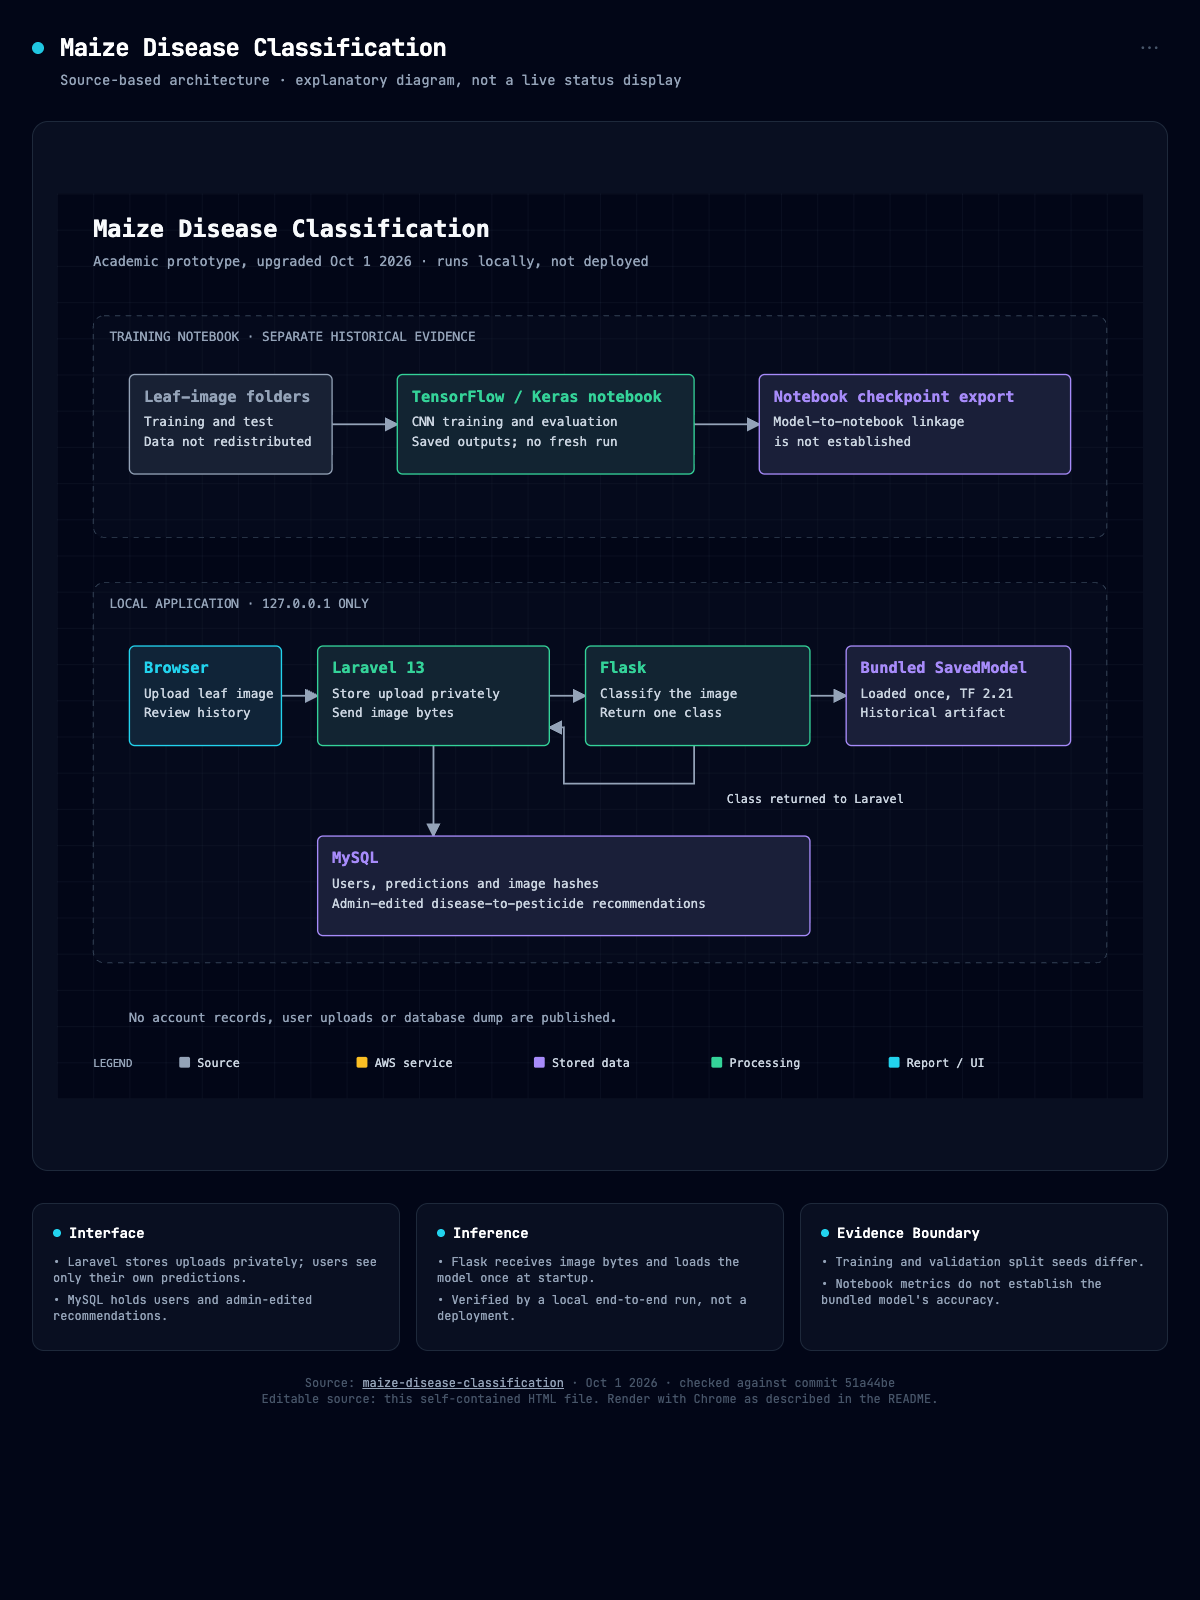
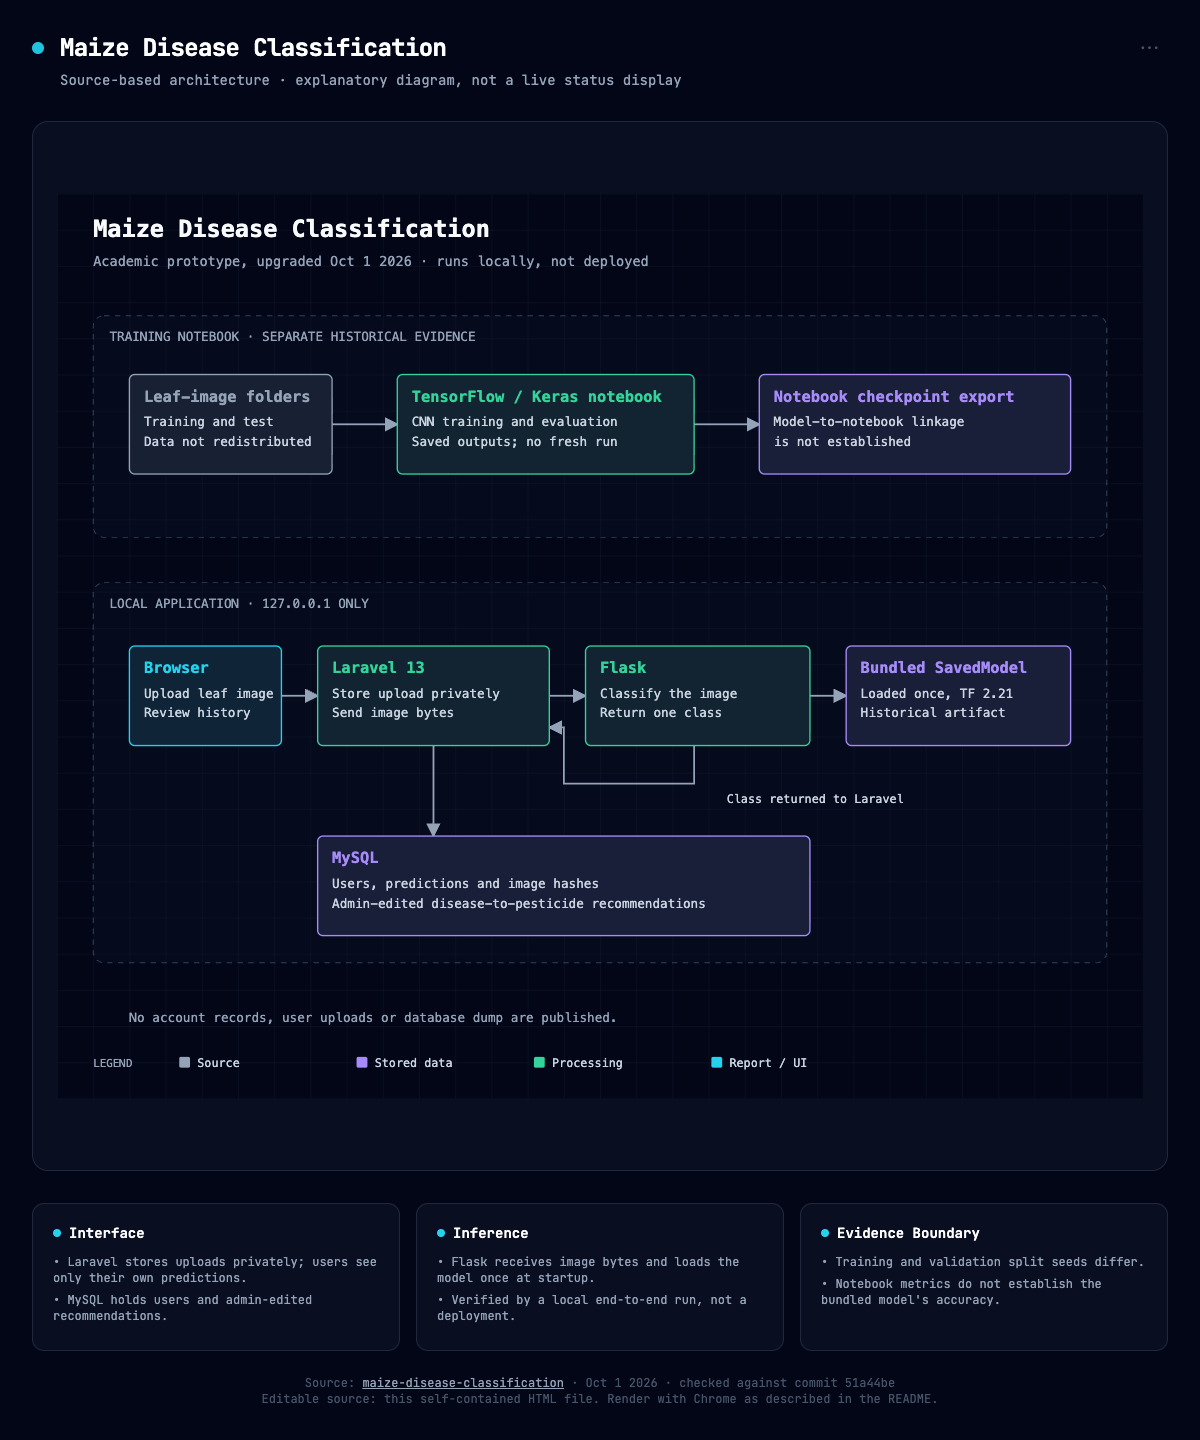
docs: fix document gaps in the READMEs, diagram and ignore rules
Replace the Laravel 8 boilerplate web-app README with a README for this app, state the dataset's public classification, remove the unused AWS legend entry from the architecture diagram and fit its render height, and keep local tool folders out of the public .gitignore. Drop allowlist entries that no longer match any text.

diff --git a/docs/architecture/architecture.html b/docs/architecture/architecture.html
@@ -206,7 +206,7 @@
 <defs><pattern id="grid" width="40" height="40" patternUnits="userSpaceOnUse"><path d="M40 0H0V40" fill="none" stroke="#1e293b" stroke-width="0.7"/></pattern><marker id="flow" markerWidth="8" markerHeight="8" refX="7" refY="4" orient="auto"><path d="M0 0L8 4L0 8Z" fill="#94a3b8"/></marker><marker id="control" markerWidth="8" markerHeight="8" refX="7" refY="4" orient="auto"><path d="M0 0L8 4L0 8Z" fill="#fb7185"/></marker></defs>
 <rect width="1200" height="1000" fill="#020617"/><rect width="1200" height="1000" fill="url(#grid)"/>
 <g font-family="ui-monospace, Menlo, Consolas, monospace"><text x="40" y="48" font-size="26" fill="#f8fafc" font-weight="700">Maize Disease Classification</text><text x="40" y="80" font-size="15" fill="#94a3b8" >Academic prototype, upgraded Oct 1 2026 · runs locally, not deployed</text><rect x="40" y="135" width="1120" height="245" rx="12" fill="#0f172a" fill-opacity="0.25" stroke="#334155" stroke-dasharray="6 6"/><text x="58" y="163" font-size="14" fill="#94a3b8" >TRAINING NOTEBOOK · SEPARATE HISTORICAL EVIDENCE</text><rect x="40" y="430" width="1120" height="420" rx="12" fill="#0f172a" fill-opacity="0.25" stroke="#334155" stroke-dasharray="6 6"/><text x="58" y="458" font-size="14" fill="#94a3b8" >LOCAL APPLICATION · 127.0.0.1 ONLY</text><path d="M304 255H376" fill="none" stroke="#94a3b8" stroke-width="2"  marker-end="url(#flow)"/><path d="M704 255H776" fill="none" stroke="#94a3b8" stroke-width="2"  marker-end="url(#flow)"/><path d="M248 555H288" fill="none" stroke="#94a3b8" stroke-width="2"  marker-end="url(#flow)"/><path d="M544 555H584" fill="none" stroke="#94a3b8" stroke-width="2"  marker-end="url(#flow)"/><path d="M832 555H872" fill="none" stroke="#94a3b8" stroke-width="2"  marker-end="url(#flow)"/><path d="M704 610V652H560V590H544" fill="none" stroke="#94a3b8" stroke-width="2"  marker-end="url(#flow)"/><path d="M416 610V710" fill="none" stroke="#94a3b8" stroke-width="2"  marker-end="url(#flow)"/><g><rect x="80" y="200" width="224" height="110" rx="6" fill="#0f172a"/><rect x="80" y="200" width="224" height="110" rx="6" fill="#94a3b8" fill-opacity="0.07" stroke="#94a3b8" stroke-width="1.5"/><text x="96" y="230" font-size="17" fill="#94a3b8" font-weight="700">Leaf-image folders</text><text x="96" y="257" font-size="14" fill="#cbd5e1" >Training and test</text><text x="96" y="279" font-size="14" fill="#cbd5e1" >Data not redistributed</text></g><g><rect x="376" y="200" width="328" height="110" rx="6" fill="#0f172a"/><rect x="376" y="200" width="328" height="110" rx="6" fill="#34d399" fill-opacity="0.07" stroke="#34d399" stroke-width="1.5"/><text x="392" y="230" font-size="17" fill="#34d399" font-weight="700">TensorFlow / Keras notebook</text><text x="392" y="257" font-size="14" fill="#cbd5e1" >CNN training and evaluation</text><text x="392" y="279" font-size="14" fill="#cbd5e1" >Saved outputs; no fresh run</text></g><g><rect x="776" y="200" width="344" height="110" rx="6" fill="#0f172a"/><rect x="776" y="200" width="344" height="110" rx="6" fill="#a78bfa" fill-opacity="0.07" stroke="#a78bfa" stroke-width="1.5"/><text x="792" y="230" font-size="17" fill="#a78bfa" font-weight="700">Notebook checkpoint export</text><text x="792" y="257" font-size="14" fill="#cbd5e1" >Model-to-notebook linkage</text><text x="792" y="279" font-size="14" fill="#cbd5e1" >is not established</text></g><g><rect x="80" y="500" width="168" height="110" rx="6" fill="#0f172a"/><rect x="80" y="500" width="168" height="110" rx="6" fill="#22d3ee" fill-opacity="0.07" stroke="#22d3ee" stroke-width="1.5"/><text x="96" y="530" font-size="17" fill="#22d3ee" font-weight="700">Browser</text><text x="96" y="557" font-size="14" fill="#cbd5e1" >Upload leaf image</text><text x="96" y="579" font-size="14" fill="#cbd5e1" >Review history</text></g><g><rect x="288" y="500" width="256" height="110" rx="6" fill="#0f172a"/><rect x="288" y="500" width="256" height="110" rx="6" fill="#34d399" fill-opacity="0.07" stroke="#34d399" stroke-width="1.5"/><text x="304" y="530" font-size="17" fill="#34d399" font-weight="700">Laravel 13</text><text x="304" y="557" font-size="14" fill="#cbd5e1" >Store upload privately</text><text x="304" y="579" font-size="14" fill="#cbd5e1" >Send image bytes</text></g><g><rect x="584" y="500" width="248" height="110" rx="6" fill="#0f172a"/><rect x="584" y="500" width="248" height="110" rx="6" fill="#34d399" fill-opacity="0.07" stroke="#34d399" stroke-width="1.5"/><text x="600" y="530" font-size="17" fill="#34d399" font-weight="700">Flask</text><text x="600" y="557" font-size="14" fill="#cbd5e1" >Classify the image</text><text x="600" y="579" font-size="14" fill="#cbd5e1" >Return one class</text></g><g><rect x="872" y="500" width="248" height="110" rx="6" fill="#0f172a"/><rect x="872" y="500" width="248" height="110" rx="6" fill="#a78bfa" fill-opacity="0.07" stroke="#a78bfa" stroke-width="1.5"/><text x="888" y="530" font-size="17" fill="#a78bfa" font-weight="700">Bundled SavedModel</text><text x="888" y="557" font-size="14" fill="#cbd5e1" >Loaded once, TF 2.21</text><text x="888" y="579" font-size="14" fill="#cbd5e1" >Historical artifact</text></g><g><rect x="288" y="710" width="544" height="110" rx="6" fill="#0f172a"/><rect x="288" y="710" width="544" height="110" rx="6" fill="#a78bfa" fill-opacity="0.07" stroke="#a78bfa" stroke-width="1.5"/><text x="304" y="740" font-size="17" fill="#a78bfa" font-weight="700">MySQL</text><text x="304" y="767" font-size="14" fill="#cbd5e1" >Users, predictions and image hashes</text><text x="304" y="789" font-size="14" fill="#cbd5e1" >Admin-edited disease-to-pesticide recommendations</text></g><text x="740" y="674" font-size="13" fill="#cbd5e1" >Class returned to Laravel</text><text x="80" y="915" font-size="14" fill="#94a3b8" >No account records, user uploads or database dump are published.</text>
-<text x="40" y="965" font-size="12" fill="#94a3b8" >LEGEND</text><rect x="135" y="954" width="12" height="12" rx="2" fill="#94a3b8"/><text x="155" y="965" font-size="13" fill="#cbd5e1" >Source</text><rect x="331" y="954" width="12" height="12" rx="2" fill="#fbbf24"/><text x="351" y="965" font-size="13" fill="#cbd5e1" >AWS service</text><rect x="527" y="954" width="12" height="12" rx="2" fill="#a78bfa"/><text x="547" y="965" font-size="13" fill="#cbd5e1" >Stored data</text><rect x="723" y="954" width="12" height="12" rx="2" fill="#34d399"/><text x="743" y="965" font-size="13" fill="#cbd5e1" >Processing</text><rect x="919" y="954" width="12" height="12" rx="2" fill="#22d3ee"/><text x="939" y="965" font-size="13" fill="#cbd5e1" >Report / UI</text>
+<text x="40" y="965" font-size="12" fill="#94a3b8" >LEGEND</text><rect x="135" y="954" width="12" height="12" rx="2" fill="#94a3b8"/><text x="155" y="965" font-size="13" fill="#cbd5e1" >Source</text><rect x="331" y="954" width="12" height="12" rx="2" fill="#a78bfa"/><text x="351" y="965" font-size="13" fill="#cbd5e1" >Stored data</text><rect x="527" y="954" width="12" height="12" rx="2" fill="#34d399"/><text x="547" y="965" font-size="13" fill="#cbd5e1" >Processing</text><rect x="723" y="954" width="12" height="12" rx="2" fill="#22d3ee"/><text x="743" y="965" font-size="13" fill="#cbd5e1" >Report / UI</text>
 </g></svg>
 
     </div>

diff --git a/web-app/README.md b/web-app/README.md
@@ -1,64 +1,40 @@
-<p align="center"><a href="https://laravel.com" target="_blank"><img src="https://raw.githubusercontent.com/laravel/art/master/logo-lockup/5%20SVG/2%20CMYK/1%20Full%20Color/laravel-logolockup-cmyk-red.svg" width="400"></a></p>
+# Maize Disease Classification Web App
 
-<p align="center">
-<a href="https://travis-ci.org/laravel/framework"><img src="https://travis-ci.org/laravel/framework.svg" alt="Build Status"></a>
-<a href="https://packagist.org/packages/laravel/framework"><img src="https://img.shields.io/packagist/dt/laravel/framework" alt="Total Downloads"></a>
-<a href="https://packagist.org/packages/laravel/framework"><img src="https://img.shields.io/packagist/v/laravel/framework" alt="Latest Stable Version"></a>
-<a href="https://packagist.org/packages/laravel/framework"><img src="https://img.shields.io/packagist/l/laravel/framework" alt="License"></a>
-</p>
+The Laravel 13 interface of the maize disease classifier: users upload a leaf image, the Flask service in [`../flask-app`](../flask-app) predicts its class and the app stores the result with an admin-edited recommendation.
 
-## About Laravel
+## Install
 
-Laravel is a web application framework with expressive, elegant syntax. We believe development must be an enjoyable and creative experience to be truly fulfilling. Laravel takes the pain out of development by easing common tasks used in many web projects, such as:
+Requires PHP 8.3 or newer (verified with 8.5.11), Composer 2 and a MySQL 8 or newer database. The full setup, including the database and the Flask service, is in the [root README](../README.md#install). From this folder:
 
-- [Simple, fast routing engine](https://laravel.com/docs/routing).
-- [Powerful dependency injection container](https://laravel.com/docs/container).
-- Multiple back-ends for [session](https://laravel.com/docs/session) and [cache](https://laravel.com/docs/cache) storage.
-- Expressive, intuitive [database ORM](https://laravel.com/docs/eloquent).
-- Database agnostic [schema migrations](https://laravel.com/docs/migrations).
-- [Robust background job processing](https://laravel.com/docs/queues).
-- [Real-time event broadcasting](https://laravel.com/docs/broadcasting).
+```bash
+composer install
+cp .env.example .env
+php artisan key:generate
+php artisan migrate --seed
+```
 
-Laravel is accessible, powerful, and provides tools required for large, robust applications.
+Set the database name, user and password in `.env`. [`.env.example`](.env.example) lists every setting with placeholders.
 
-## Learning Laravel
+## Usage
 
-Laravel has the most extensive and thorough [documentation](https://laravel.com/docs) and video tutorial library of all modern web application frameworks, making it a breeze to get started with the framework.
+Start the Flask service first, then run the app on the loopback interface:
 
-If you don't feel like reading, [Laracasts](https://laracasts.com) can help. Laracasts contains over 1500 video tutorials on a range of topics including Laravel, modern PHP, unit testing, and JavaScript. Boost your skills by digging into our comprehensive video library.
+```bash
+php artisan serve --host=127.0.0.1 --port=8000
+```
 
-## Laravel Sponsors
+Register at `http://127.0.0.1:8000`, then give your account the administrator role:
 
-We would like to extend our thanks to the following sponsors for funding Laravel development. If you are interested in becoming a sponsor, please visit the Laravel [Patreon page](https://patreon.com/taylorotwell).
+```bash
+php artisan app:make-admin <EMAIL>
+```
 
-### Premium Partners
-
-- **[Vehikl](https://vehikl.com/)**
-- **[Tighten Co.](https://tighten.co)**
-- **[Kirschbaum Development Group](https://kirschbaumdevelopment.com)**
-- **[64 Robots](https://64robots.com)**
-- **[Cubet Techno Labs](https://cubettech.com)**
-- **[Cyber-Duck](https://cyber-duck.co.uk)**
-- **[Many](https://www.many.co.uk)**
-- **[Webdock, Fast VPS Hosting](https://www.webdock.io/en)**
-- **[DevSquad](https://devsquad.com)**
-- **[Curotec](https://www.curotec.com/services/technologies/laravel/)**
-- **[OP.GG](https://op.gg)**
-- **[CMS Max](https://www.cmsmax.com/)**
-- **[WebReinvent](https://webreinvent.com/?utm_source=laravel&utm_medium=github&utm_campaign=patreon-sponsors)**
+Routes, access rules and the end-to-end check are described in the [root README](../README.md#usage).
 
 ## Contributing
 
-Thank you for considering contributing to the Laravel framework! The contribution guide can be found in the [Laravel documentation](https://laravel.com/docs/contributions).
-
-## Code of Conduct
-
-In order to ensure that the Laravel community is welcoming to all, please review and abide by the [Code of Conduct](https://laravel.com/docs/contributions#code-of-conduct).
-
-## Security Vulnerabilities
-
-If you discover a security vulnerability within Laravel, please send an e-mail to Taylor Otwell via [taylor@laravel.com](mailto:taylor@laravel.com). All security vulnerabilities will be promptly addressed.
+Individual project; contributions are not accepted.
 
 ## License
 
-The Laravel framework is open-sourced software licensed under the [MIT license](https://opensource.org/licenses/MIT).
+The project code is licensed under the [MIT License](../LICENSE). Third-party packages keep their own licenses, recorded in `composer.lock` and `package-lock.json`.

diff --git a/README.md b/README.md
@@ -127,7 +127,7 @@ The editable source is [`docs/architecture/architecture.html`](docs/architecture
 To render the self-contained diagram with an installed Chrome browser, run from the repository root:
 
 ```bash
-"/Applications/Google Chrome.app/Contents/MacOS/Google Chrome" --headless=new --hide-scrollbars --window-size=1200,1600 --virtual-time-budget=5000 --screenshot=docs/architecture/architecture.png "file://$PWD/docs/architecture/architecture.html"
+"/Applications/Google Chrome.app/Contents/MacOS/Google Chrome" --headless=new --hide-scrollbars --window-size=1200,1440 --virtual-time-budget=5000 --screenshot=docs/architecture/architecture.png "file://$PWD/docs/architecture/architecture.html"
 ```
 
 ## Data
@@ -136,7 +136,7 @@ The notebook works with maize leaf images in four classes: Blight, Common Rust, 
 
 The images come from the [Corn or Maize Leaf Disease Dataset](https://www.kaggle.com/datasets/smaranjitghose/corn-or-maize-leaf-disease-dataset) on Kaggle, compiled by Smaranjit Ghose. The original download, dated Jul 8 2021, matches that listing: 4,188 images, the same uncompressed size and the same count in each class. Its train and test folders hold the notebook's 3,560 and 628 images.
 
-The end-to-end check uses 8 images from that Kaggle download, 2 per class, as local fixtures. They are public data and are not redistributed here.
+The dataset is classified as public data: it is openly published with the credits and terms below. The end-to-end check uses 8 images from that Kaggle download, 2 per class, as local fixtures. They are not redistributed here.
 
 The retained notebook image shows only leaf samples and class labels. Account records, user uploads and database dumps are excluded. Images uploaded to a local run are stored in `web-app/storage/app/private/`, which Git ignores.
 
